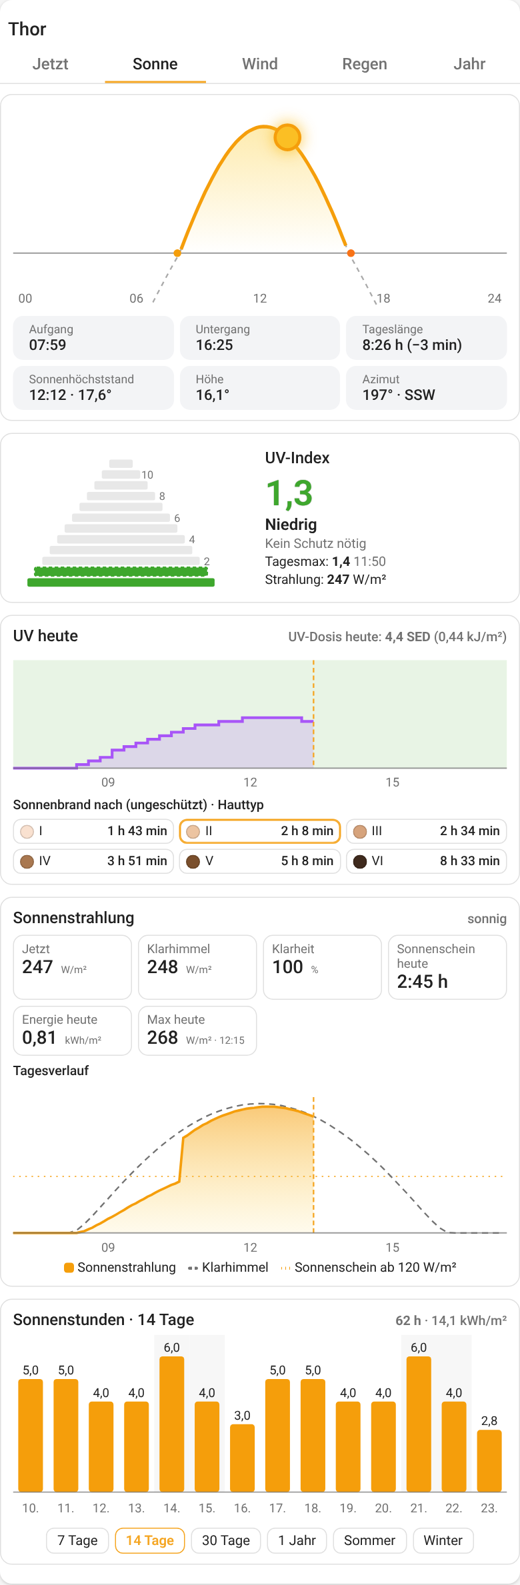
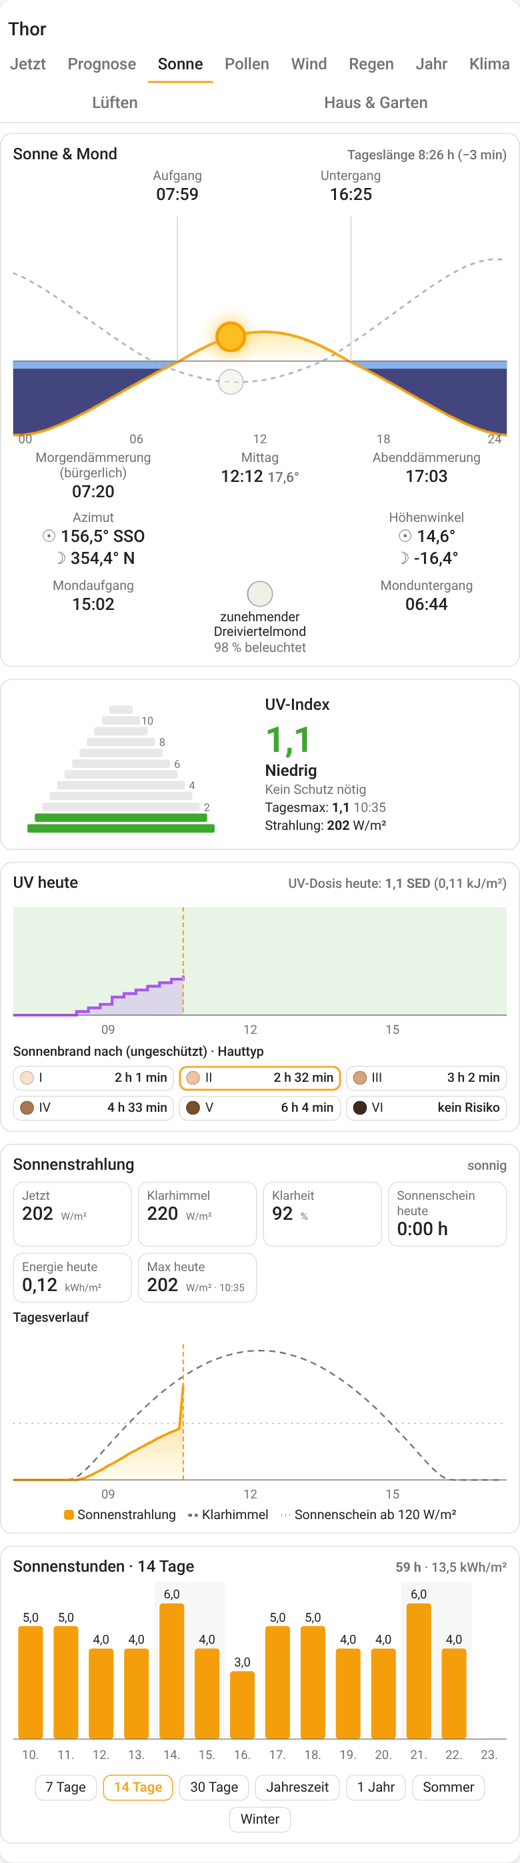
v1.9.0: Sonne & Mond – Dämmerung, Mondbahn, Mondauf-/-untergang, Azimut/Höhe von Sonne und Mond, Mondphase
Claude-Session: https://claude.ai/code/session_01QFZMPV6JW9oBrQGUzZEXot

diff --git a/thor-weather-card.js b/thor-weather-card.js
@@ -4,7 +4,7 @@
  * Wind-Kompass mit Mittelwerten, Windrose, UV-Pyramide, Regen und Klimatage des Jahres.
  * https://github.com/muhkuh666/thor-weather-card
  */
-const CARD_VERSION = "1.8.0";
+const CARD_VERSION = "1.9.0";
 
 const HOUR = 3600 * 1000;
 const DAY = 24 * HOUR;
@@ -69,6 +69,8 @@ const DEFAULTS = {
   show_rose_now: true,
   show_rose_sun: true,
   show_rose_moon: true,
+  show_moon_arc: true,
+  twilight: "civil", // civil | nautical | astronomical
   // Prognose
   forecast_model: "zambretti", // zambretti | simple
   hemisphere: "auto", // auto | north | south
@@ -223,7 +225,9 @@ const T = {
     risks: "Hinweise", risk: { nfrost: "Frost heute Nacht", pollen: "Pollen", fog: "Nebel", frost: "Frost / Glätte", dew: "Tau", storm: "Sturm", heat: "Hitze", uv: "UV", thunder: "Gewitterneigung", none: "Keine Auffälligkeiten" },
     lvl: ["gering", "möglich", "wahrscheinlich", "hoch"],
     wx_hourly: "Stündlich", wx_daily: "Täglich", wx_from: "Vorhersage von", wx_none: "Keine Vorhersage – Wetter-Entität im Editor wählen (z. B. DWD, Met.no).",
-    sm: { sun: "Sonne", moon: "Mond", el: "Höhe", lit: "beleuchtet", below: "unter dem Horizont", phases: ["Neumond", "zunehmende Sichel", "erstes Viertel", "zunehmender Mond", "Vollmond", "abnehmender Mond", "letztes Viertel", "abnehmende Sichel"] },
+    sm_title: "Sonne & Mond", dawn: "Morgendämmerung", dusk: "Abenddämmerung", noon_s: "Mittag", moonrise: "Mondaufgang", moonset: "Monduntergang", no_event: "heute keiner", height: "Höhenwinkel",
+    tw: { civil: "bürgerlich", nautical: "nautisch", astronomical: "astronomisch" },
+    sm: { sun: "Sonne", moon: "Mond", el: "Höhe", lit: "beleuchtet", below: "unter dem Horizont", phases: ["Neumond", "zunehmende Sichel", "zunehmender Halbmond", "zunehmender Dreiviertelmond", "Vollmond", "abnehmender Dreiviertelmond", "abnehmender Halbmond", "abnehmende Sichel"] },
     rose_now: "Jetzt", rose_metric: { freq: "Häufigkeit", speed: "Geschwindigkeit", bft: "Stärke (Bft)" }, rose_avg_hint: "Ø je Richtung · Linie = Maximum · Deckkraft = Häufigkeit",
     pollen: "Pollenflug", pollen_hist: "Pollen-Verlauf", pollen_top: "Am stärksten", pollen_mine: "deine Allergene", pollen_free: "Heute und in den nächsten Tagen kein Pollenflug.",
     pollen_none: "Keine Pollen-Sensoren gefunden – z. B. die Integration „DWD Pollenflug“ (HACS) installieren oder Sensoren im Editor wählen.",
@@ -318,6 +322,8 @@ const T = {
     risks: "Alerts", risk: { nfrost: "Frost tonight", pollen: "Pollen", fog: "Fog", frost: "Frost / ice", dew: "Dew", storm: "Storm", heat: "Heat", uv: "UV", thunder: "Thunderstorm tendency", none: "Nothing notable" },
     lvl: ["low", "possible", "likely", "high"],
     wx_hourly: "Hourly", wx_daily: "Daily", wx_from: "Forecast from", wx_none: "No forecast – pick a weather entity in the editor (e.g. Met.no).",
+    sm_title: "Sun & moon", dawn: "Dawn", dusk: "Dusk", noon_s: "Noon", moonrise: "Moonrise", moonset: "Moonset", no_event: "none today", height: "Elevation",
+    tw: { civil: "civil", nautical: "nautical", astronomical: "astronomical" },
     sm: { sun: "Sun", moon: "Moon", el: "elevation", lit: "lit", below: "below the horizon", phases: ["New moon", "Waxing crescent", "First quarter", "Waxing gibbous", "Full moon", "Waning gibbous", "Last quarter", "Waning crescent"] },
     rose_now: "Now", rose_metric: { freq: "Frequency", speed: "Speed", bft: "Force (Bft)" }, rose_avg_hint: "Ø per direction · line = maximum · opacity = frequency",
     pollen: "Pollen", pollen_hist: "Pollen history", pollen_top: "Strongest", pollen_mine: "your allergens", pollen_free: "No pollen today or in the next days.",
@@ -691,13 +697,13 @@ function solarPos(t, lat, lon) {
 }
 
 /** Auf-/Untergang und Mittag für den lokalen Tag von t (ms) */
-function sunTimes(t, lat, lon) {
+function sunTimes(t, lat, lon, zen = 90.833) {
   const day = new Date(t);
   day.setHours(12, 0, 0, 0);
   const { decl, eqt } = solarParams(day.getTime());
   const utc0 = Date.UTC(day.getFullYear(), day.getMonth(), day.getDate());
   const noonMin = 720 - 4 * lon - eqt;
-  const cosH = Math.cos(rad(90.833)) / (Math.cos(rad(lat)) * Math.cos(rad(decl))) - Math.tan(rad(lat)) * Math.tan(rad(decl));
+  const cosH = Math.cos(rad(zen)) / (Math.cos(rad(lat)) * Math.cos(rad(decl))) - Math.tan(rad(lat)) * Math.tan(rad(decl));
   const noon = utc0 + noonMin * 60000;
   if (cosH > 1) return { noon, polar: "night" };
   if (cosH < -1) return { noon, polar: "day" };
@@ -730,6 +736,37 @@ function moonPos(t, lat, lon) {
   const inc = Math.atan2(sdist * Math.sin(ph), dist - sdist * Math.cos(ph));
   const ang = Math.atan2(Math.cos(s.dec) * Math.sin(s.ra - m.ra), Math.sin(s.dec) * Math.cos(m.dec) - Math.cos(s.dec) * Math.sin(m.dec) * Math.cos(s.ra - m.ra));
   return { az: norm360((az * 180) / Math.PI + 180), el: (h * 180) / Math.PI, frac: (1 + Math.cos(inc)) / 2, phase: 0.5 + (0.5 * inc * (ang < 0 ? -1 : 1)) / Math.PI };
+}
+
+/** Phase 0…1 → 0 Neumond … 4 Vollmond … 7 abnehmende Sichel (Viertel und Voll nur nahe am exakten Zeitpunkt) */
+function moonPhaseIdx(p) {
+  const b = [0.0339, 0.216, 0.284, 0.466, 0.534, 0.716, 0.784, 0.966];
+  for (let i = 0; i < b.length; i++) if (p < b[i]) return i;
+  return 0;
+}
+
+/** Mondauf- und -untergang am lokalen Tag (Abtastung + Bisektion, Horizont +0,133°) */
+function moonRiseSet(t, lat, lon) {
+  const d0 = new Date(t).setHours(0, 0, 0, 0);
+  const h0 = 0.133;
+  const f = (tt) => moonPos(tt, lat, lon).el - h0;
+  const out = {};
+  let prevT = d0, prev = f(d0);
+  for (let tt = d0 + 10 * 60000; tt <= d0 + DAY; tt += 10 * 60000) {
+    const v = f(tt);
+    if ((prev < 0) !== (v < 0)) {
+      let a = prevT, b = tt, fa = prev;
+      for (let k = 0; k < 12; k++) {
+        const m = (a + b) / 2, fm = f(m);
+        if ((fa < 0) === (fm < 0)) { a = m; fa = fm; } else b = m;
+      }
+      const x = (a + b) / 2;
+      if (prev < 0 && !out.rise) out.rise = x;
+      if (prev >= 0 && !out.set) out.set = x;
+    }
+    prevT = tt; prev = v;
+  }
+  return out;
 }
 
 /** Klarhimmel-Globalstrahlung nach Haurwitz (W/m²) */
@@ -1121,7 +1158,7 @@ class ThorWeatherCard extends HTMLElement {
     const t = this._t;
     if (!sm.sun && !sm.moon) return "";
     const part = (p, icon, name, extra) => `<span><ha-icon icon="${icon}"></ha-icon>${esc(name)} <b>${Math.round(p.az)}° ${this._cardinal(p.az)}</b> · ${esc(t.sm.el)} ${this._fmt(p.el, 1)}°${p.el < 0 ? ` <span class="muted">(${esc(t.sm.below)})</span>` : ""}${extra || ""}</span>`;
-    const ph = sm.moon ? Math.round(sm.moon.phase * 8) % 8 : 0;
+    const ph = sm.moon ? moonPhaseIdx(sm.moon.phase) : 0;
     return `<div class="rnow smline">
       ${sm.sun ? part(sm.sun, "mdi:white-balance-sunny", t.sm.sun) : ""}
       ${sm.moon ? part(sm.moon, ["mdi:moon-new", "mdi:moon-waxing-crescent", "mdi:moon-first-quarter", "mdi:moon-waxing-gibbous", "mdi:moon-full", "mdi:moon-waning-gibbous", "mdi:moon-last-quarter", "mdi:moon-waning-crescent"][ph], t.sm.moon, ` · ${esc(t.sm.phases[ph])} ${Math.round(sm.moon.frac * 100)} % ${esc(t.sm.lit)}`) : ""}
@@ -3119,52 +3156,82 @@ class ThorWeatherCard extends HTMLElement {
 
   _sunArc() {
     const t = this._t;
+    const c = this._config;
     const loc = this._loc();
     const now = Date.now();
     const pos = this._sunNow();
     if (!loc && !pos) return "";
-    let svg = "", info = [];
-    if (loc) {
-      const st = sunTimes(now, loc.lat, loc.lon);
-      const sy = sunTimes(now - DAY, loc.lat, loc.lon);
-      const W = 320, H = 130, top = 14, hor = 96;
-      const d0 = new Date(now).setHours(0, 0, 0, 0), d1 = d0 + DAY;
-      const X = (tt) => ((tt - d0) / (d1 - d0)) * W;
-      const maxEl = Math.max(10, solarPos(st.noon, loc.lat, loc.lon).el);
-      const minEl = -Math.max(10, Math.min(30, maxEl / 2));
-      const Y = (el) => (el >= 0 ? hor - (el / maxEl) * (hor - top) : hor + (el / minEl) * (H - hor - 4));
-      let d = "", dDay = "";
-      for (let tt = d0; tt <= d1; tt += 10 * 60000) {
-        const el = solarPos(tt, loc.lat, loc.lon).el;
-        d += `${d ? "L" : "M"}${X(tt).toFixed(1)},${Y(el).toFixed(1)} `;
-        if (el >= 0) dDay += `${dDay ? "L" : "M"}${X(tt).toFixed(1)},${Y(el).toFixed(1)} `;
-      }
-      svg += `<defs><linearGradient id="thor-sky" x1="0" y1="0" x2="0" y2="1"><stop offset="0" stop-color="#fcd34d" stop-opacity=".45"/><stop offset="1" stop-color="#fcd34d" stop-opacity="0"/></linearGradient></defs>`;
-      if (st.rise && st.set) svg += `<path d="${dDay} L${X(st.set).toFixed(1)},${hor} L${X(st.rise).toFixed(1)},${hor} Z" fill="url(#thor-sky)"/>`;
-      svg += `<path d="${d}" fill="none" stroke="var(--secondary-text-color)" stroke-width="1" stroke-dasharray="3 3" opacity=".6"/>`;
-      if (dDay) svg += `<path d="${dDay}" fill="none" stroke="#f59e0b" stroke-width="2.2"/>`;
-      svg += `<line x1="0" x2="${W}" y1="${hor}" y2="${hor}" class="axis"/>`;
-      for (let h = 0; h <= 24; h += 6) svg += `<text x="${Math.min(W - 8, Math.max(8, (h / 24) * W)).toFixed(1)}" y="${H - 2}" class="bl muted">${String(h).padStart(2, "0")}</text>`;
-      if (st.rise) svg += `<circle cx="${X(st.rise).toFixed(1)}" cy="${hor}" r="2.5" fill="#f59e0b"/>`;
-      if (st.set) svg += `<circle cx="${X(st.set).toFixed(1)}" cy="${hor}" r="2.5" fill="#f97316"/>`;
-      const pe = pos.el;
-      svg += `<circle cx="${X(now).toFixed(1)}" cy="${Y(pe).toFixed(1)}" r="${pe >= 0 ? 8 : 6}" fill="${pe >= 0 ? "#fbbf24" : "#64748b"}" stroke="${pe >= 0 ? "#f59e0b" : "#475569"}" stroke-width="2" ${pe >= 0 ? 'class="sunglow"' : ""}/>`;
-      svg = `<svg viewBox="0 0 ${W} ${H}" class="sunarc">${svg}</svg>`;
-      if (st.rise) {
-        const len = st.set - st.rise;
-        const diff = sy.rise ? len - (sy.set - sy.rise) : NaN;
-        info.push(this._chip("mdi:weather-sunset-up", t.sunrise, this._time(st.rise)));
-        info.push(this._chip("mdi:weather-sunset-down", t.sunset, this._time(st.set)));
-        info.push(this._chip("mdi:timer-sand", t.daylength, `${this._dur(len)}${ok(diff) ? ` (${diff >= 0 ? "+" : "−"}${Math.round(Math.abs(diff) / 60000)} min)` : ""}`));
-      }
-      info.push(this._chip("mdi:weather-sunny", t.noon, `${this._time(st.noon)} · ${this._fmt(maxEl, 1)}°`));
+    if (!loc) {
+      return `<div class="panel"><div class="panel-t">${esc(t.sm_title)}</div><div class="chips ex">
+        ${this._chip("mdi:angle-acute", t.elevation, `${this._fmt(pos.el, 1)}°`, "sun_entity")}
+        ${this._chip("mdi:compass-outline", t.azimuth, `${this._fmt(pos.az, 0)}° · ${this._cardinal(pos.az)}`, "sun_entity")}</div></div>`;
     }
-    if (pos && ok(pos.el)) {
-      info.push(this._chip("mdi:angle-acute", t.elevation, pos.el >= 0 ? `${this._fmt(pos.el, 1)}°` : `${this._fmt(pos.el, 1)}° · ${t.below_horizon}`, "sun_entity"));
-      info.push(this._chip("mdi:compass-outline", t.azimuth, `${this._fmt(pos.az, 0)}° · ${this._cardinal(pos.az)}`, "sun_entity"));
+    const zen = { civil: 96, nautical: 102, astronomical: 108 }[c.twilight] || 96;
+    const twEl = 90 - zen;
+    const st = sunTimes(now, loc.lat, loc.lon);
+    const sy = sunTimes(now - DAY, loc.lat, loc.lon);
+    const tw = sunTimes(now, loc.lat, loc.lon, zen);
+    const showMoon = c.show_moon_arc;
+    const moon = showMoon ? moonPos(now, loc.lat, loc.lon) : null;
+    const mrs = showMoon ? moonRiseSet(now, loc.lat, loc.lon) : {};
+    const d0 = new Date(now).setHours(0, 0, 0, 0), d1 = d0 + DAY;
+    const W = 320, H = 150, top = 30, hor = 96;
+    const X = (tt) => ((tt - d0) / (d1 - d0)) * W;
+    const sunEl = [], moonEl = [];
+    for (let tt = d0; tt <= d1; tt += 10 * 60000) {
+      sunEl.push([tt, solarPos(tt, loc.lat, loc.lon).el]);
+      if (showMoon) moonEl.push([tt, moonPos(tt, loc.lat, loc.lon).el]);
     }
-    return `<div class="panel">${svg}<div class="chips ex">${info.join("")}</div></div>`;
+    const maxUp = Math.max(10, ...sunEl.map((p) => p[1]), ...moonEl.map((p) => p[1]));
+    const maxDn = Math.max(10, ...sunEl.map((p) => -p[1]), ...moonEl.map((p) => -p[1]));
+    const Y = (el) => (el >= 0 ? hor - (el / maxUp) * (hor - top) : hor + (Math.min(-el, maxDn) / maxDn) * (H - hor - 6));
+    const line = (arr, fn = (v) => v) => arr.map(([tt, el], i) => `${i ? "L" : "M"}${X(tt).toFixed(1)},${Y(fn(el)).toFixed(1)}`).join(" ");
+    let svg = "";
+    // Nacht (Sonne unter dem Horizont) dunkel, Dämmerung hell
+    svg += `<path d="M0,${hor} ${line(sunEl, (v) => Math.min(v, 0)).replace(/^M/, "L")} L${W},${hor} Z" fill="#2e3170" opacity=".9"/>`;
+    svg += `<path d="M0,${hor} ${line(sunEl, (v) => (v < 0 ? Math.max(v, twEl) : 0)).replace(/^M/, "L")} L${W},${hor} Z" fill="#93c5fd" opacity=".85"/>`;
+    // Tag
+    svg += `<defs><linearGradient id="thor-sky" x1="0" y1="0" x2="0" y2="1"><stop offset="0" stop-color="#fcd34d" stop-opacity=".45"/><stop offset="1" stop-color="#fcd34d" stop-opacity="0"/></linearGradient></defs>`;
+    svg += `<path d="M0,${hor} ${line(sunEl, (v) => Math.max(v, 0)).replace(/^M/, "L")} L${W},${hor} Z" fill="url(#thor-sky)"/>`;
+    if (showMoon) svg += `<path d="${line(moonEl)}" fill="none" stroke="#9ca3af" stroke-width="1.2" stroke-dasharray="3 3" opacity=".8"/>`;
+    svg += `<path d="${line(sunEl)}" fill="none" stroke="#f59e0b" stroke-width="1.8" opacity=".9"/>`;
+    svg += `<line x1="0" x2="${W}" y1="${hor}" y2="${hor}" class="axis"/>`;
+    // Senkrechte Linien bei Auf- und Untergang
+    for (const tt of [st.rise, st.set]) if (tt) svg += `<line x1="${X(tt).toFixed(1)}" x2="${X(tt).toFixed(1)}" y1="2" y2="${hor}" stroke="var(--divider-color)" stroke-width="1"/>`;
+    for (let h = 0; h <= 24; h += 6) svg += `<text x="${clamp((h / 24) * W, 8, W - 8).toFixed(1)}" y="${H - 1}" class="bl muted">${String(h).padStart(2, "0")}</text>`;
+    // Mond und Sonne jetzt
+    if (moon) {
+      const mx = X(now), my = Y(moon.el);
+      svg += `<g opacity="${moon.el >= 0 ? 1 : 0.55}">${this._moonIcon(+mx.toFixed(1), +my.toFixed(1), 8, moon)}</g>`;
+    }
+    const pe = pos.el;
+    svg += `<circle cx="${X(now).toFixed(1)}" cy="${Y(pe).toFixed(1)}" r="9" fill="${pe >= 0 ? "#fbbf24" : "#64748b"}" stroke="${pe >= 0 ? "#f59e0b" : "#475569"}" stroke-width="2" ${pe >= 0 ? 'class="sunglow"' : ""}/>`;
+    const len = st.rise && st.set ? st.set - st.rise : NaN;
+    const diff = ok(len) && sy.rise ? len - (sy.set - sy.rise) : NaN;
+    const tm = (x) => (x ? this._time(x) : t.no_event);
+    const cell = (label, val, extra = "") => `<div class="smc"><div class="muted small">${esc(label)}</div><div class="smv">${val}</div>${extra}</div>`;
+    const ph = moon ? moonPhaseIdx(moon.phase) : 0;
+    return `<div class="panel">
+      <div class="panel-t row"><span>${esc(t.sm_title)}</span><span class="small muted">${esc(t.daylength)} ${ok(len) ? this._dur(len) : "–"}${ok(diff) ? ` (${diff >= 0 ? "+" : "−"}${Math.round(Math.abs(diff) / 60000)} min)` : ""}</span></div>
+      <div class="smtop">
+        <div style="left:${((X(st.rise || d0 + 6 * HOUR) / W) * 100).toFixed(1)}%">${cell(t.sunrise, tm(st.rise))}</div>
+        <div style="left:${((X(st.set || d0 + 18 * HOUR) / W) * 100).toFixed(1)}%">${cell(t.sunset, tm(st.set))}</div>
+      </div>
+      <svg viewBox="0 0 ${W} ${H}" class="sunarc">${svg}</svg>
+      <div class="smgrid">
+        ${cell(`${t.dawn} (${t.tw[c.twilight] || t.tw.civil})`, tm(tw.rise))}
+        ${cell(t.noon_s, `${this._time(st.noon)} <span class="muted small">${this._fmt(solarPos(st.noon, loc.lat, loc.lon).el, 1)}°</span>`)}
+        ${cell(t.dusk, tm(tw.set))}
+        ${cell(t.azimuth, `<span class="sym">☉</span> ${this._fmt(pos.az, 1)}° ${this._cardinal(pos.az)}${moon ? `<br><span class="sym">☽</span> ${this._fmt(moon.az, 1)}° ${this._cardinal(moon.az)}` : ""}`)}
+        <div></div>
+        ${cell(t.height, `<span class="sym">☉</span> ${this._fmt(pos.el, 1)}°${moon ? `<br><span class="sym">☽</span> ${this._fmt(moon.el, 1)}°` : ""}`)}
+        ${moon ? cell(t.moonrise, tm(mrs.rise)) : ""}
+        ${moon ? `<div class="smc"><svg viewBox="-12 -12 24 24" class="mphase">${this._moonIcon(0, 0, 10, moon)}</svg><div class="small">${esc(t.sm.phases[ph])}</div><div class="muted small">${Math.round(moon.frac * 100)} % ${esc(t.sm.lit)}</div></div>` : ""}
+        ${moon ? cell(t.moonset, tm(mrs.set)) : ""}
+      </div>
+    </div>`;
   }
+
 
   _uvSun() {
     const t = this._t;
@@ -4214,6 +4281,13 @@ ha-card { padding: 12px 14px 14px; overflow: hidden; }
 .bm { display:inline-block; width:8px; height:8px; border-radius:50%; margin-left:1px; }
 /* Sonne */
 .sunarc { width:100%; height:auto; display:block; }
+.smtop { position:relative; height:44px; }
+.smtop > div { position:absolute; transform:translateX(-50%); top:0; }
+.smgrid { display:grid; grid-template-columns: repeat(3, 1fr); gap:8px 6px; margin-top:6px; text-align:center; }
+.smc { display:flex; flex-direction:column; align-items:center; gap:1px; }
+.smv { font-size:1.05em; font-weight:500; line-height:1.3; }
+.sym { color: var(--secondary-text-color); }
+.mphase { width:30px; height:30px; }
 .sunglow { filter: drop-shadow(0 0 5px rgba(251,191,36,.9)); }
 .skins { display:grid; grid-template-columns: repeat(auto-fill, minmax(124px, 1fr)); gap:5px; }
 .skin { display:flex; align-items:center; gap:5px; border:1px solid var(--divider-color); border-radius:8px; padding:4px 6px; font-size:.8em; }
@@ -4246,11 +4320,11 @@ const ED = {
       wind_dir_avg_hour_entity: "Richtung Stundenmittel", wind_dir_avg_day_entity: "Richtung Tagesmittel", wind_dir_avg_month_entity: "Richtung Monatsmittel", wind_dir_avg_year_entity: "Richtung Jahresmittel",
       wind_speed_avg_hour_entity: "Geschw. Stundenmittel", wind_speed_avg_day_entity: "Geschw. Tagesmittel", wind_speed_avg_month_entity: "Geschw. Monatsmittel", wind_speed_avg_year_entity: "Geschw. Jahresmittel",
       uv_entity: "UV-Index", radiation_entity: "Sonnenstrahlung (W/m²)", illuminance_entity: "Helligkeit (lx)", sun_entity: "Sonnen-Entität",
-      show_sun_arc: "Sonnenbogen & Tageslänge", show_sun_uv: "UV-Kurve, Dosis & Sonnenbrandzeit", show_radiation: "Strahlung & Sonnenschein", show_sun_chart: "Sonnenstunden je Tag",
+      show_sun_arc: "Sonne & Mond (Bogen, Dämmerung, Mondauf-/-untergang)", show_sun_uv: "UV-Kurve, Dosis & Sonnenbrandzeit", show_radiation: "Strahlung & Sonnenschein", show_sun_chart: "Sonnenstunden je Tag",
       skin_type: "Hauttyp", sunshine_threshold: "Sonnenschein ab",
       title: "Titel", icon: "Symbol", show_header: "Kopfzeile", layout: "Layout", default_tab: "Start-Reiter", tabs: "Reiter / Abschnitte", language: "Sprache",
       show_hero: "Übersicht (Jetzt)", show_gauges: "Zeigerinstrumente", show_temps: "Temperatur-Kacheln", show_uv: "UV-Pyramide",
-      show_compass: "Wind-Kompass", show_wind_averages: "Richtungs-Mittel (Stunde/Tag/Monat/Jahr)", show_windrose: "Windrose", show_wind_values: "Windwerte-Liste", windrose_metric: "Windrose: Darstellung", show_rose_metric_switch: "Windrose: Umschalter Häufigkeit/Geschw./Stärke", show_rose_now: "Windrose: aktueller Wind", show_rose_sun: "Windrose: Sonnenposition", show_rose_moon: "Windrose: Mondposition",
+      show_compass: "Wind-Kompass", show_wind_averages: "Richtungs-Mittel (Stunde/Tag/Monat/Jahr)", show_windrose: "Windrose", show_wind_values: "Windwerte-Liste", windrose_metric: "Windrose: Darstellung", show_rose_metric_switch: "Windrose: Umschalter Häufigkeit/Geschw./Stärke", show_rose_now: "Windrose: aktueller Wind", show_moon_arc: "Sonne & Mond: Mond anzeigen", twilight: "Dämmerung", show_rose_sun: "Windrose: Sonnenposition", show_rose_moon: "Windrose: Mondposition",
       weather_entity: "Wetter-Entität (Vorhersage)", forecast_model: "Prognosemodell", hemisphere: "Halbkugel", forecast_hours: "Stunden in der Vorhersage", forecast_days: "Tage in der Vorhersage",
       show_zambretti: "Lokale Prognose (Zambretti)", show_pressure_chart: "Luftdruck-Trend", show_risks: "Hinweise (Nebel, Frost, Sturm …)", show_weather_forecast: "Vorhersage der Wetter-Entität",
       show_season: "Jahreszeit (Reiter Jahr)", show_season_chip: "Jahreszeit in der Übersicht", show_bft_scale: "Beaufort-Säulen (Wind & Böen)", season_type: "Jahreszeit zählt",
@@ -4301,6 +4375,7 @@ const ED = {
     opts: {
       climate: "Klima", air: "Lüften & Schimmel", home: "Haus & Garten",
       tabs: "Reiter", stack: "Untereinander", now: "Jetzt", sun: "Sonne", wind: "Wind", rain: "Regen", year: "Jahr",
+      tw_civil: "Bürgerlich (−6°)", tw_naut: "Nautisch (−12°)", tw_astro: "Astronomisch (−18°)",
       s_meteo: "Meteorologisch (1. März, 1. Juni …)", s_astro: "Astronomisch (Tagundnachtgleiche, Sonnenwende)",
       p_ppm: "Pollen/m³", p_city: "Stadt", p_rural: "Land", pollen: "Pollen",
       wind_m: "Mittelwind", gust_m: "Böen", m_freq: "Häufigkeit", m_speed: "Geschwindigkeit", m_bft: "Stärke (Beaufort)", forecast: "Prognose",
@@ -4319,11 +4394,11 @@ const ED = {
       wind_dir_avg_hour_entity: "Direction hourly mean", wind_dir_avg_day_entity: "Direction daily mean", wind_dir_avg_month_entity: "Direction monthly mean", wind_dir_avg_year_entity: "Direction yearly mean",
       wind_speed_avg_hour_entity: "Speed hourly mean", wind_speed_avg_day_entity: "Speed daily mean", wind_speed_avg_month_entity: "Speed monthly mean", wind_speed_avg_year_entity: "Speed yearly mean",
       uv_entity: "UV index", radiation_entity: "Solar radiation (W/m²)", illuminance_entity: "Illuminance (lx)", sun_entity: "Sun entity",
-      show_sun_arc: "Sun arc & day length", show_sun_uv: "UV curve, dose & sunburn time", show_radiation: "Radiation & sunshine", show_sun_chart: "Sunshine hours per day",
+      show_sun_arc: "Sun & moon (arc, twilight, moonrise/-set)", show_sun_uv: "UV curve, dose & sunburn time", show_radiation: "Radiation & sunshine", show_sun_chart: "Sunshine hours per day",
       skin_type: "Skin type", sunshine_threshold: "Sunshine from",
       title: "Title", icon: "Icon", show_header: "Header", layout: "Layout", default_tab: "Start tab", tabs: "Tabs / sections", language: "Language",
       show_hero: "Overview (now)", show_gauges: "Dial gauges", show_temps: "Temperature tiles", show_uv: "UV pyramid",
-      show_compass: "Wind compass", show_wind_averages: "Direction means (hour/day/month/year)", show_windrose: "Wind rose", show_wind_values: "Wind values list", windrose_metric: "Wind rose: display", show_rose_metric_switch: "Wind rose: frequency/speed/force switch", show_rose_now: "Wind rose: current wind", show_rose_sun: "Wind rose: sun position", show_rose_moon: "Wind rose: moon position",
+      show_compass: "Wind compass", show_wind_averages: "Direction means (hour/day/month/year)", show_windrose: "Wind rose", show_wind_values: "Wind values list", windrose_metric: "Wind rose: display", show_rose_metric_switch: "Wind rose: frequency/speed/force switch", show_rose_now: "Wind rose: current wind", show_moon_arc: "Sun & moon: show moon", twilight: "Twilight", show_rose_sun: "Wind rose: sun position", show_rose_moon: "Wind rose: moon position",
       weather_entity: "Weather entity (forecast)", forecast_model: "Forecast model", hemisphere: "Hemisphere", forecast_hours: "Hours in forecast", forecast_days: "Days in forecast",
       show_zambretti: "Local forecast (Zambretti)", show_pressure_chart: "Pressure trend", show_risks: "Alerts (fog, frost, storm …)", show_weather_forecast: "Weather entity forecast",
       show_season: "Season (Year tab)", show_season_chip: "Season in overview", show_bft_scale: "Beaufort columns (wind & gusts)", season_type: "Season counts",
@@ -4374,6 +4449,7 @@ const ED = {
     opts: {
       climate: "Climate", air: "Airing & mould", home: "Home & garden",
       tabs: "Tabs", stack: "Stacked", now: "Now", sun: "Sun", wind: "Wind", rain: "Rain", year: "Year",
+      tw_civil: "Civil (−6°)", tw_naut: "Nautical (−12°)", tw_astro: "Astronomical (−18°)",
       s_meteo: "Meteorological (1 March, 1 June …)", s_astro: "Astronomical (equinox, solstice)",
       p_ppm: "Grains/m³", p_city: "Town", p_rural: "Countryside", pollen: "Pollen",
       wind_m: "Mean wind", gust_m: "Gusts", m_freq: "Frequency", m_speed: "Speed", m_bft: "Force (Beaufort)", forecast: "Forecast",
@@ -4443,6 +4519,7 @@ class ThorWeatherCardEditor extends HTMLElement {
       sec("sun", "mdi:sun-wireless", [
         grid([{ name: "uv_entity", selector: ent() }, { name: "radiation_entity", selector: ent() }]),
         grid([{ name: "illuminance_entity", selector: ent() }, { name: "sun_entity", selector: { entity: { domain: "sun" } } }]),
+        { name: "twilight", selector: sel([["civil", o.tw_civil], ["nautical", o.tw_naut], ["astronomical", o.tw_astro]]) },
         grid([
           { name: "skin_type", selector: sel(o.skins.map((l, i) => [String(i + 1), l])) },
           { name: "sunshine_threshold", selector: n(10, 400, 10, "W/m²") },
@@ -4512,6 +4589,7 @@ class ThorWeatherCardEditor extends HTMLElement {
           { name: "show_gust_chart", selector: bool }, { name: "show_rose_now", selector: bool },
           { name: "show_rose_metric_switch", selector: bool },
           { name: "show_rose_sun", selector: bool }, { name: "show_rose_moon", selector: bool },
+          { name: "show_moon_arc", selector: bool },
           { name: "show_sun_arc", selector: bool }, { name: "show_sun_uv", selector: bool },
           { name: "show_radiation", selector: bool }, { name: "show_sun_chart", selector: bool },
           { name: "show_rain", selector: bool }, { name: "show_rain_chart", selector: bool },

diff --git a/README.de.md b/README.de.md
@@ -55,6 +55,7 @@
 - **Pollen-Verlauf** als Heatmap (7–90 Tage)
 
 **Sonne**
+- **Sonne & Mond** wie bei einer Horizont-Karte: Sonnen- und Mondbahn über den Tag mit Nacht- und Dämmerungsfläche, Auf- und Untergang, Morgen- und Abenddämmerung (bürgerlich, nautisch oder astronomisch), Sonnenhöchststand, Azimut und Höhenwinkel von Sonne ☉ und Mond ☽, Mondaufgang/-untergang, Mondphase mit Bild und Beleuchtung
 - **Sonnenbogen** des Tages mit aktuellem Sonnenstand, Auf- und Untergang, **Tageslänge inkl. Änderung zu gestern**, Sonnenhöchststand mit Höhe, aktuelle Höhe und Azimut (aus dem Standort von Home Assistant berechnet)
 - **UV**: Pyramide plus UV-Kurve des Tages in den WHO-Stufen, **UV-Tagesdosis** (SED) und **Zeit bis zum Sonnenbrand** für Hauttyp I–VI (dein Typ hervorgehoben)
 - **Sonnenstrahlung**: aktuelle W/m², **Klarhimmel-Wert** und **Klarheit** (sonnig / leicht bewölkt / bewölkt / trüb), **Sonnenscheindauer heute** (WMO: ≥ 120 W/m²), **Energie heute** in kWh/m², Tagesmaximum – mit Tagesverlauf gegen die Klarhimmel-Kurve
@@ -221,6 +222,8 @@ image_opacity: 0.55
 | `forecast_hours` / `forecast_days` | `12` / `7` | Länge der stündlichen / täglichen Vorhersage |
 | `show_zambretti`, `show_pressure_chart`, `show_risks`, `show_weather_forecast` | `true` | Bereiche im Reiter *Prognose* |
 | `windrose_metric` | `freq` | Windrose zeigt `freq` (Häufigkeit), `speed` (Geschwindigkeit) oder `bft` (Stärke) |
+| `show_moon_arc` | `true` | Mond im Bereich *Sonne & Mond* |
+| `twilight` | `civil` | Dämmerung: `civil` (bürgerlich, −6°), `nautical` (nautisch, −12°), `astronomical` (astronomisch, −18°) |
 | `show_rose_sun`, `show_rose_moon` | `true` | Sonnen- / Mondposition auf der Windrose |
 | `show_rose_metric_switch`, `show_rose_now` | `true` | Umschalter in der Karte / aktueller Wind über der Rose |
 | `accent_color`, `wind_color`, `gust_color`, `needle_color` | | Farben (Hex) |

diff --git a/README.md b/README.md
@@ -55,6 +55,7 @@
 - **Pollen history** as a heatmap (7–90 days)
 
 **Sun**
+- **Sun & moon** like a horizon card: sun and moon path over the day with night and twilight shading, sunrise/sunset, dawn and dusk (civil, nautical or astronomical), solar noon, azimuth and elevation of sun ☉ and moon ☽, moonrise/moonset, moon phase with picture and illumination
 - **Sun arc** of the day with the current sun position, sunrise, sunset, **day length incl. change vs. yesterday**, solar noon with maximum elevation, elevation and azimuth (computed from your Home Assistant location)
 - **UV**: pyramid plus today's UV curve in the WHO bands, **daily UV dose** (SED) and **time until sunburn** for skin types I–VI (your type highlighted)
 - **Solar radiation**: current W/m², **clear-sky value** and **clearness** (sunny / partly cloudy / cloudy / overcast), **sunshine duration today** (WMO: ≥ 120 W/m²), **energy today** in kWh/m², daily max – with a daily curve against the clear-sky curve
@@ -221,6 +222,8 @@ image_opacity: 0.55
 | `forecast_hours` / `forecast_days` | `12` / `7` | Length of the hourly / daily forecast |
 | `show_zambretti`, `show_pressure_chart`, `show_risks`, `show_weather_forecast` | `true` | Sections of the *Forecast* tab |
 | `windrose_metric` | `freq` | Wind rose shows `freq` (frequency), `speed` or `bft` (force) |
+| `show_moon_arc` | `true` | Moon in the *Sun & moon* panel |
+| `twilight` | `civil` | Dawn/dusk: `civil` (−6°), `nautical` (−12°), `astronomical` (−18°) |
 | `show_rose_sun`, `show_rose_moon` | `true` | Sun / moon position on the wind rose |
 | `show_rose_metric_switch`, `show_rose_now` | `true` | Switch in the card / current wind above the rose |
 | `accent_color`, `wind_color`, `gust_color`, `needle_color` | | Colours (hex) |
